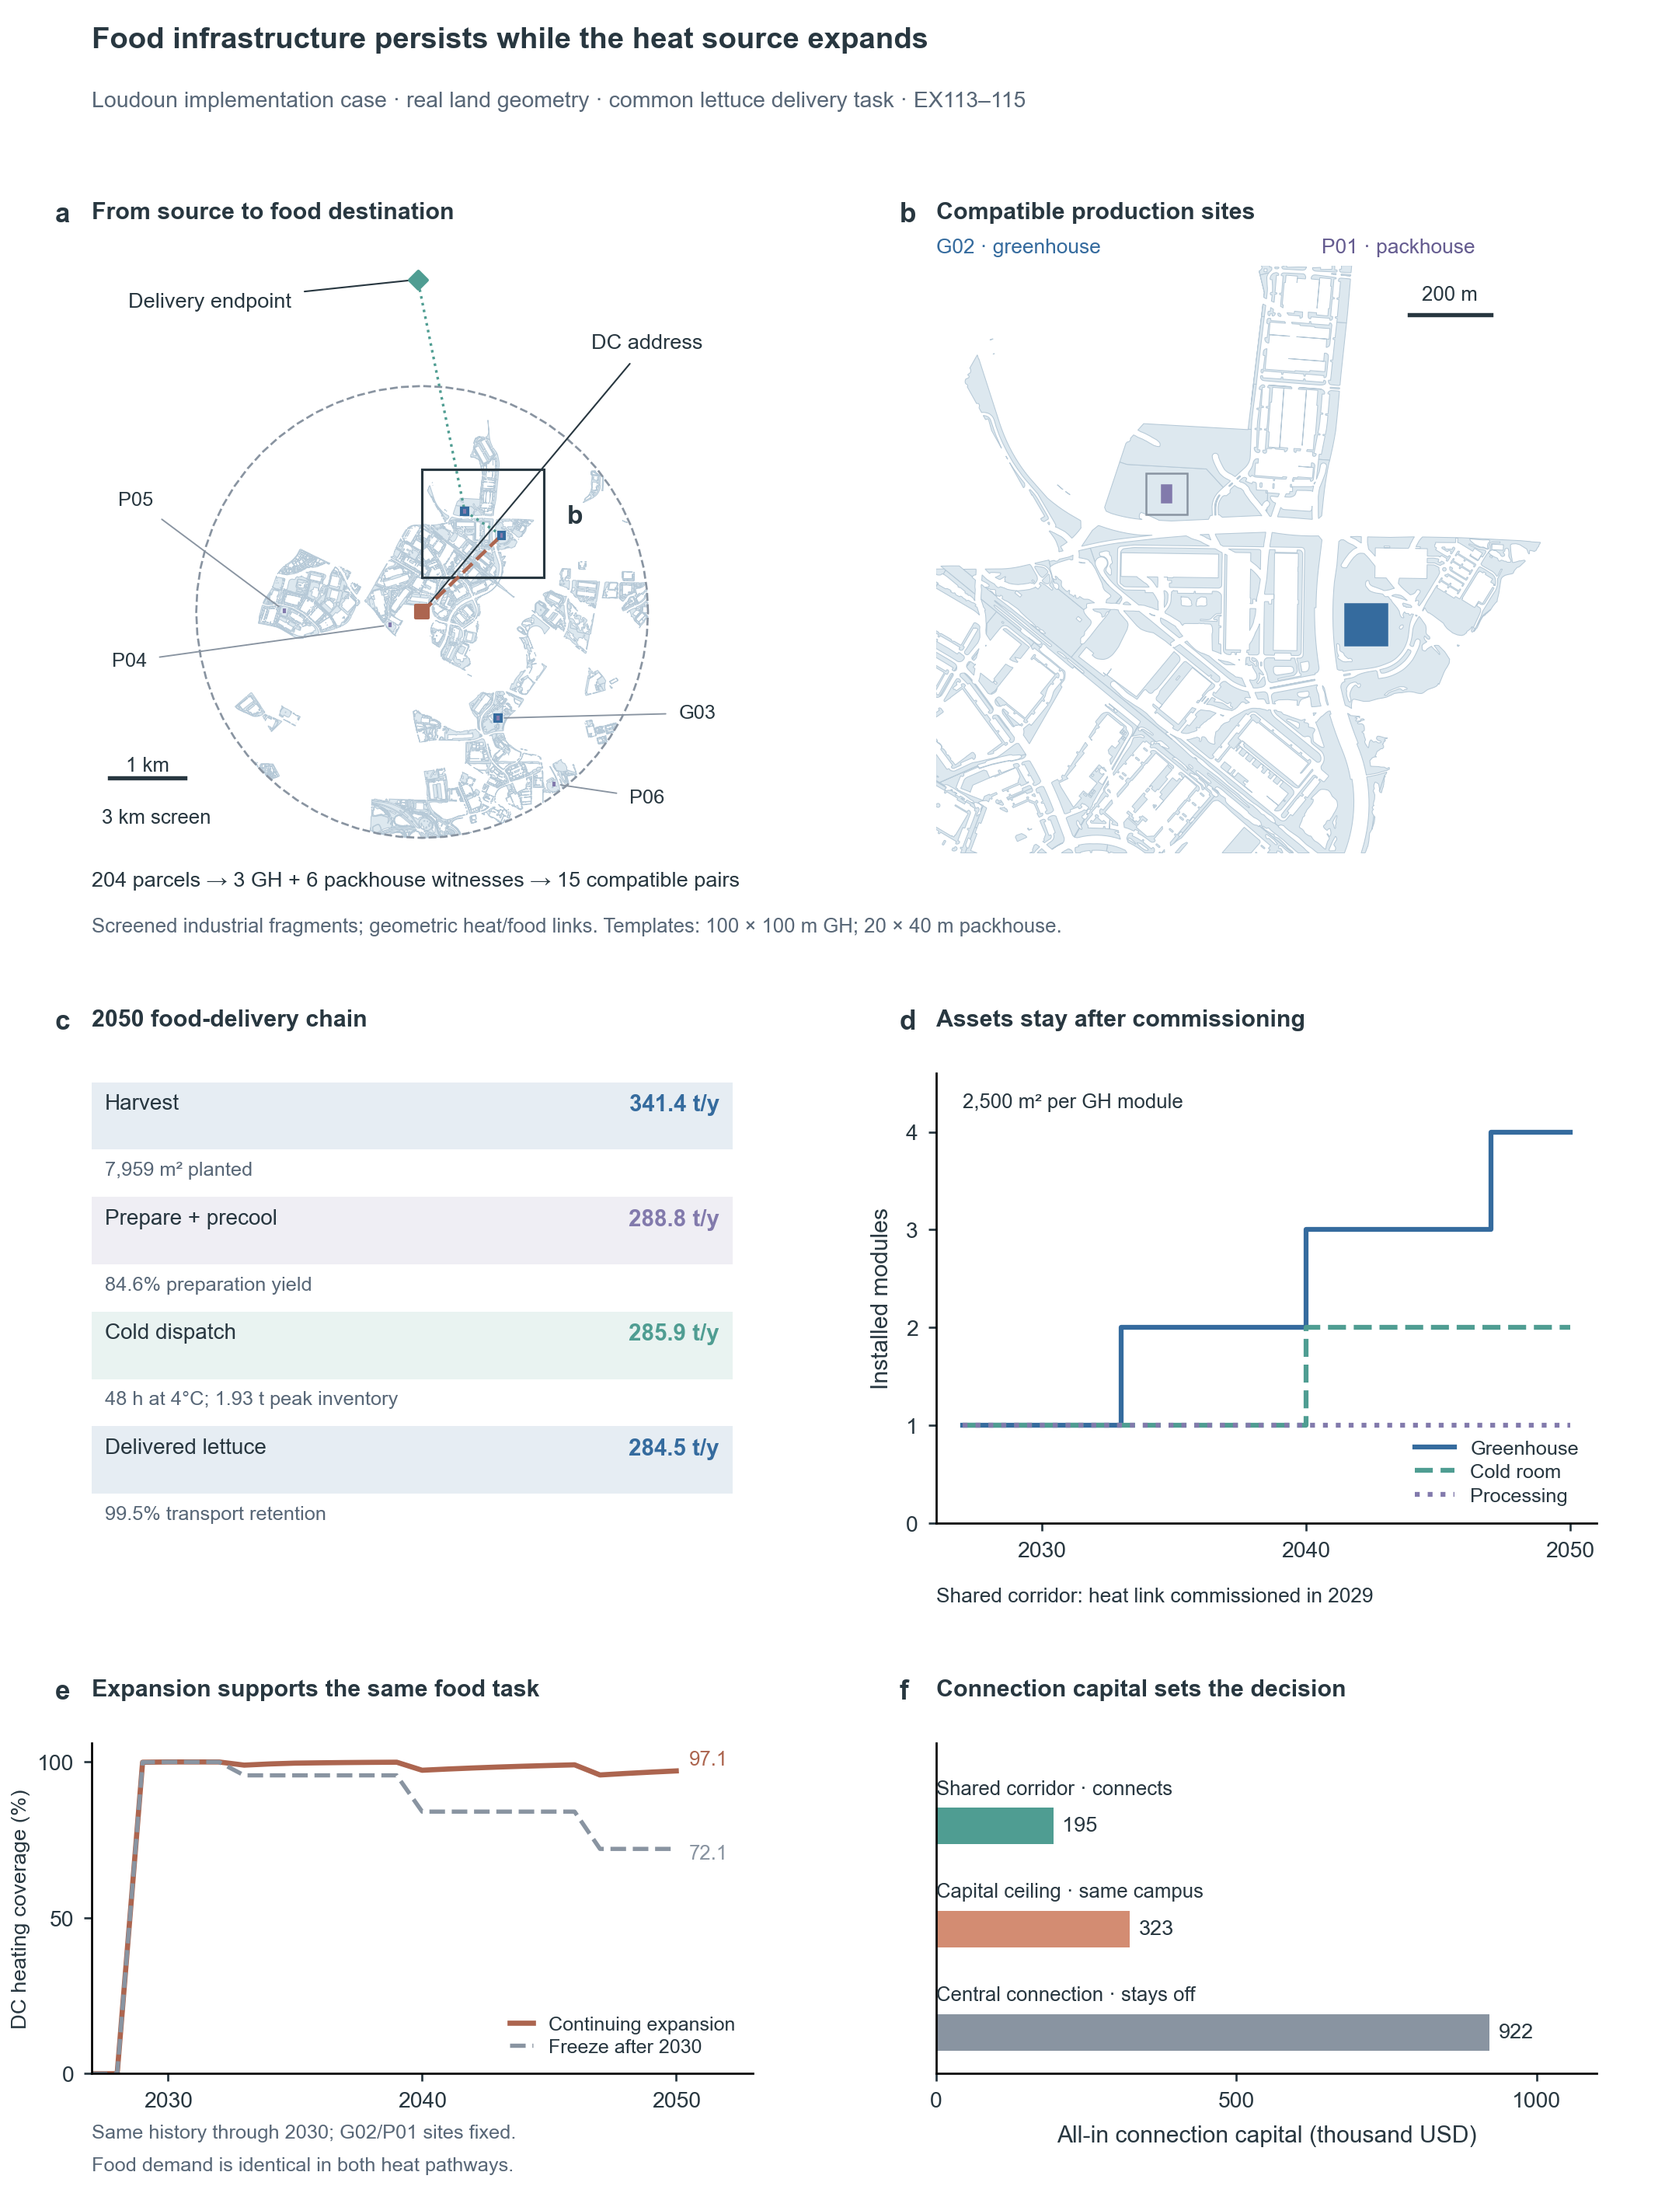
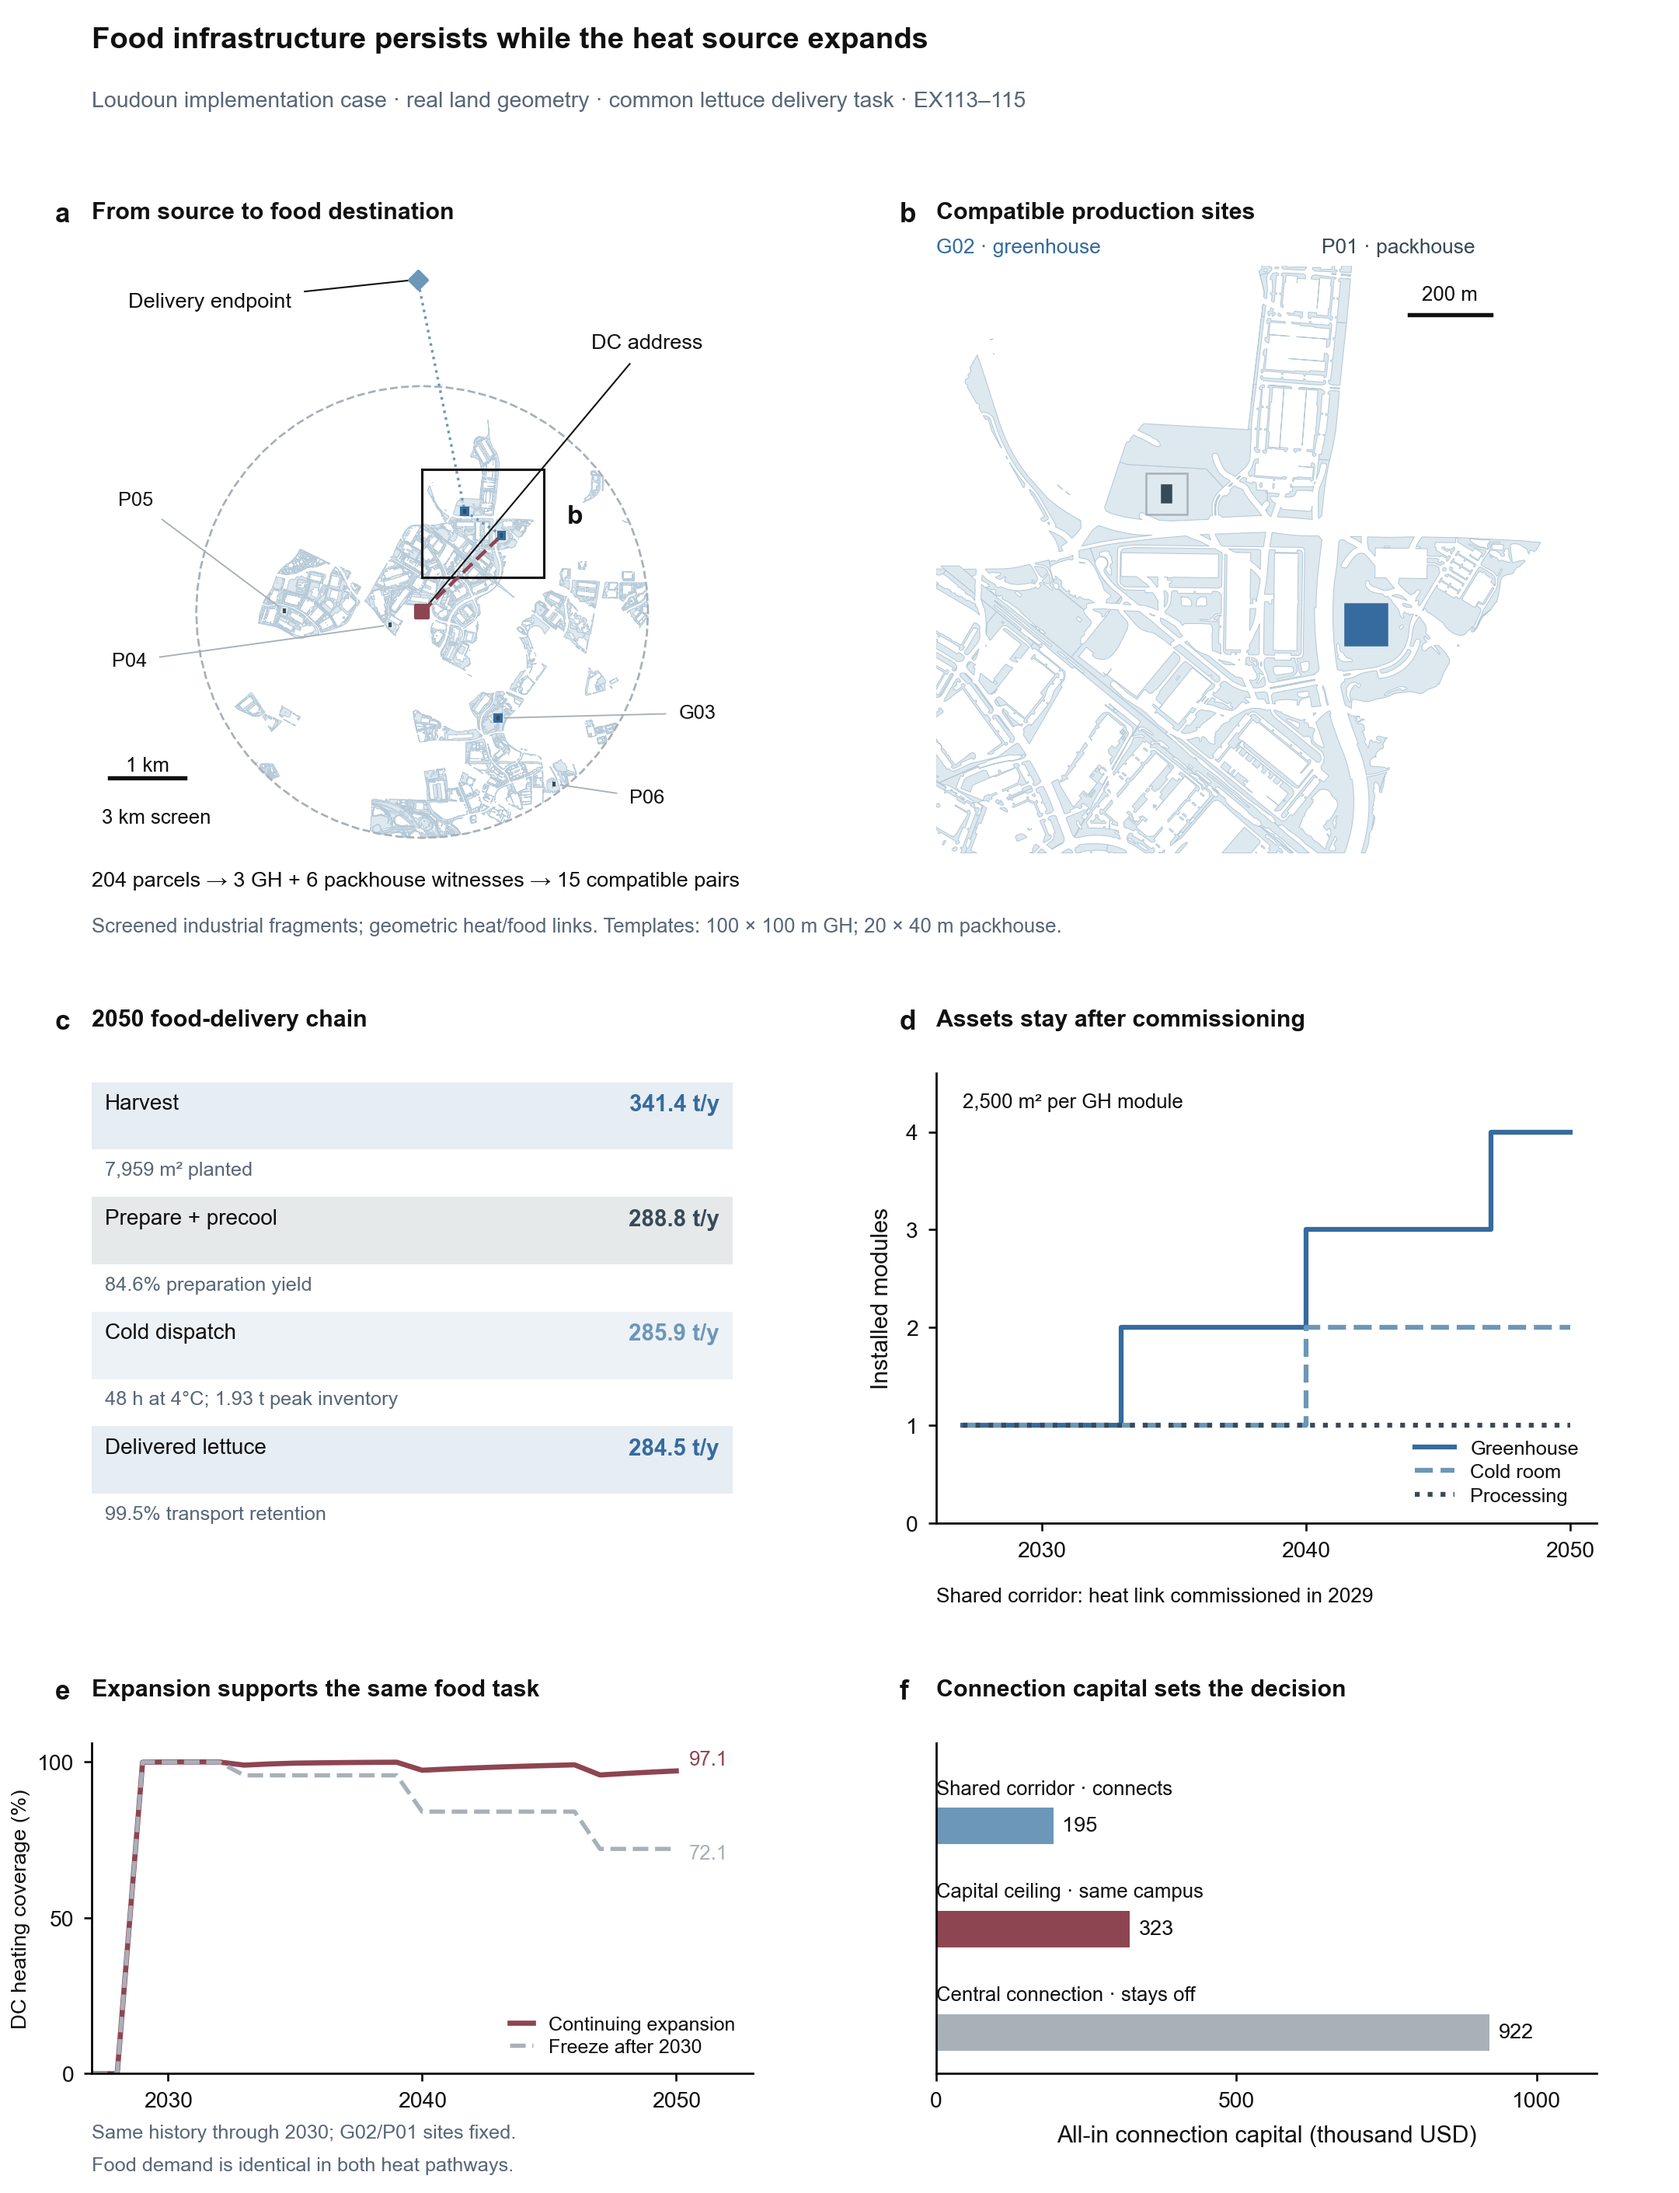
Restyle the nine supporting figures in the main-figure palette
The figures outside the main set were rendered at earlier stages with
their own palettes (teal, orange, purple, a yellow-blue log scale). All
nine are re-rendered from their own scripts and source-data tables with
the blue, slate and burgundy palette of the main set: Loudoun food chain,
county co-presence, five snapshots, four county windows, Loudoun and
Pickaway over time, Arizona, the interruption figure, the interruption
matrix and the outage-records figure. Numbers are unchanged; the
outage-records and co-presence figures carry plain-English panel labels.
Captions updated where a panel was added.

diff --git a/README.md b/README.md
@@ -75,12 +75,13 @@ budget: how each year's heat divides between cultivation, processing and unused 
 
 ![County co-presence](figures/colocation_02_county_copresence_today.png)
 
-**a**, The 2026 reference screen: 210 of 235 operational data-center campuses are in a county that
-already has both a food-crop greenhouse footprint and a food-processing footprint. Seen from the
-food side, only 106 of 1,244 such counties contain an operational campus. This is same-county
-co-presence from public data, not verified facility co-location, and connected heat delivery is
-unobserved. **b–e**, Under an earlier version of the expansion plan, where post-2026 heat is used in
-2027, 2035 and 2050, and how little of the growing resource that use represents.
+**a**, The 2026 reference screen: 1,244 counties have both a food-crop greenhouse footprint and a
+food-processing footprint (light blue), and 106 of them also hold an operational data-center campus
+(dark blue). Seen from the data centers, 210 of the 235 operational campuses are in such a county.
+This is same-county co-presence from public data, not verified facility co-location, and connected
+heat delivery is unobserved. **b–d**, Under an earlier version of the expansion plan, the post-2026
+heat used in each 25 km source cell in 2027, 2035 and 2050. **e**, Used against available heat over
+the period: a few tenths of one percent of the growing resource.
 
 #### One source, two food uses, on real land
 
@@ -173,9 +174,10 @@ imports retained.
 Tomato crop simulations in four climates. **a**, Greenhouse air temperature through a week-long
 interruption: with heat kept, every climate stays above 16.5 °C; with heat and lighting both lost,
 temperatures fall below freezing for 150 of the 672 event hours, to −13.9 °C in Minnesota. **b**,
-Harvest retained after 24, 72 and 168 hours. Temperature recovers within hours of service returning,
-but the harvest deficit persists. The sub-freezing cases lie outside the crop model's validated
-range, so their harvest contrasts are qualitative.
+Cumulative harvest against the uninterrupted control over the 75-day cycle: the deficit opens after
+the interruption and never closes, reaching 2.3 kg per m² in Minnesota with heat lost and 0.4 kg per
+m² with heat kept. **c**, Harvest retained after 24, 72 and 168 hours. The sub-freezing cases lie
+outside the crop model's validated range, so their harvest contrasts are qualitative.
 
 #### Duration, climate and timing: the full matrix
 
@@ -197,9 +199,9 @@ alone recovers most of the loss.
 merged event dataset: about 1.8% of county outage streaks reach 24 hours, 0.3% reach 72 hours and
 0.07% reach a week. These place the tested durations in the observed distribution; they are county
 events, not the failure probability of any facility. **b**, Under an earlier version of the plan,
-the modelled crop loss avoided by a backed heat link grows with the food rollout and with stress
-duration. **c**, Backing only the data center's IT load gives the crop nothing; the heat link must
-be backed too. **d**, The benefit survives when both sides are given equal continuity. Conditional
+the crop loss avoided by a backed heat link grows with the food rollout and with the stress length.
+**c**, Backing only the data center's IT load gives the crop nothing; the heat link itself must be
+backed. **d**, The benefit survives when both sides are given equal continuity. Conditional
 per-cycle quantities, not annual expected losses.
 
 ## An open question
